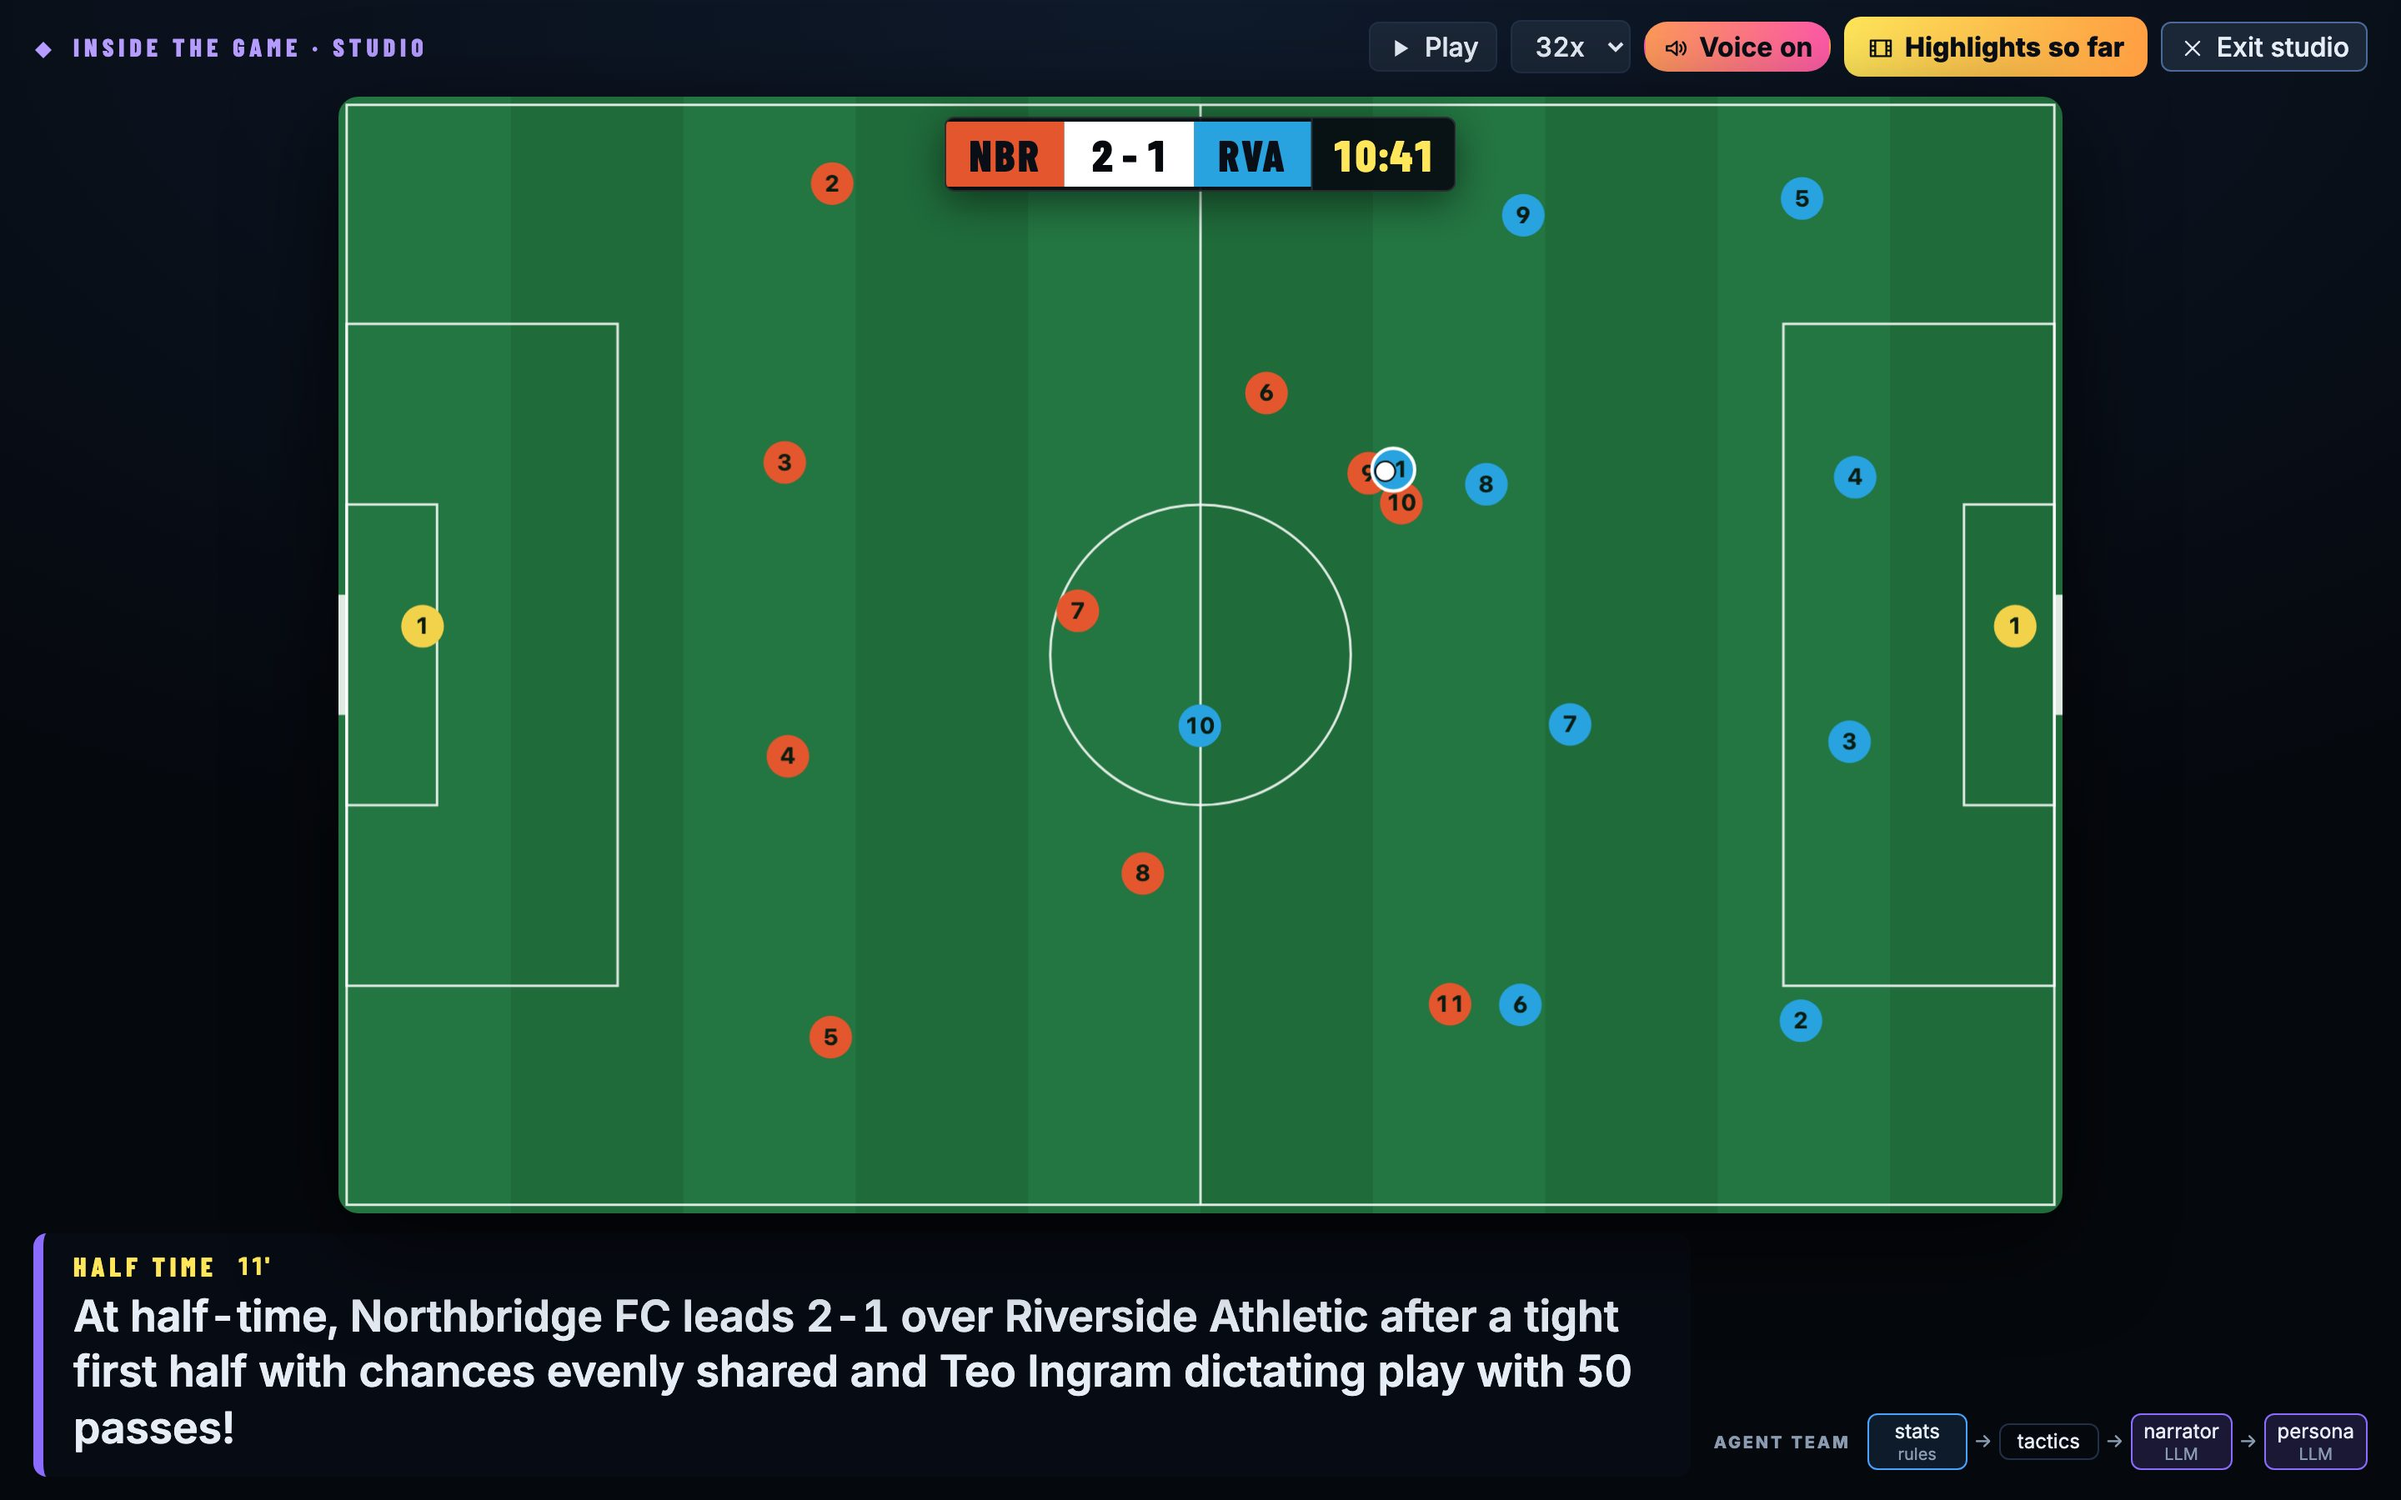
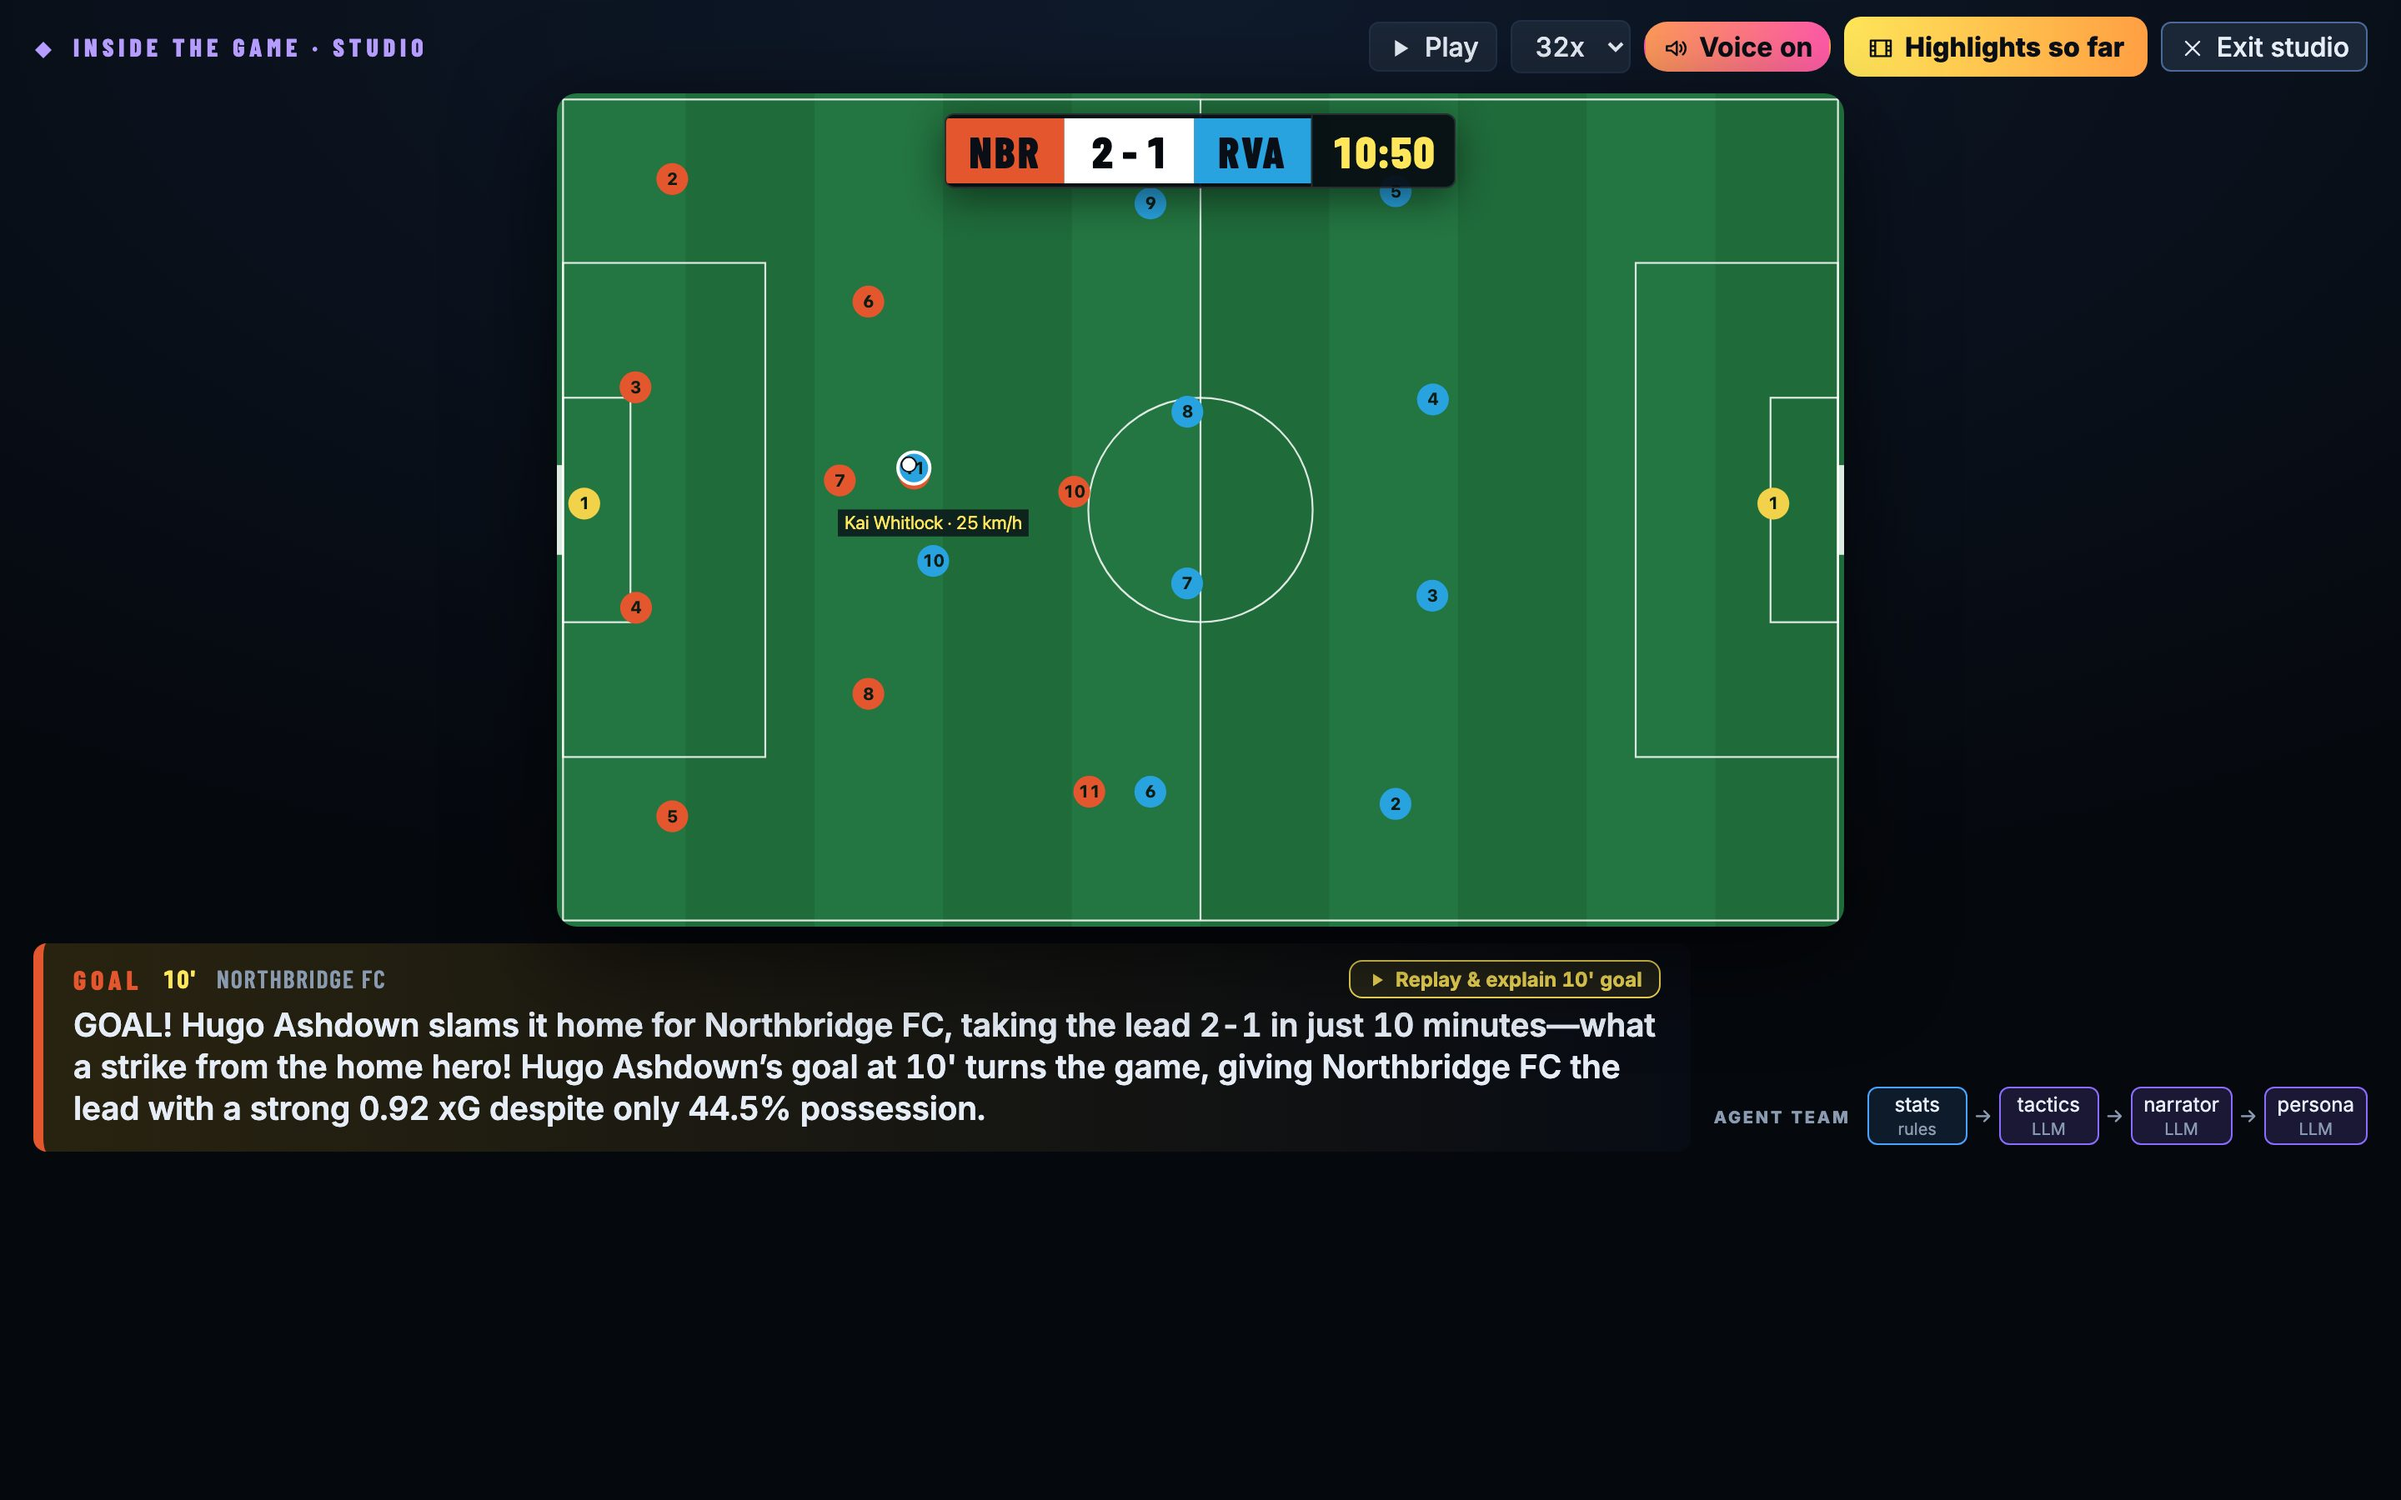
Screenshots and docs for the Watch, Crew and Data shell

diff --git a/README.md b/README.md
@@ -18,47 +18,39 @@ each viewer, which also makes the match accessible to fans who cannot see the sc
 | Explain this moment: telestrated replay, analyst voice | AI highlights: producer + explainers in parallel |
 |---|---|
 | ![Explain this moment](docs/img/explain-3.jpg) | ![Highlights reel clip](docs/img/reel-clip.jpg) |
-| ![Broadcaster view: live pitch, key moments timeline, AI commentary with the agent trace](docs/img/live-broadcaster.jpg) | ![Highlights clip card](docs/img/reel-card.jpg) |
+| ![Watch: the broadcast with the viewer's rail](docs/img/live-broadcaster.jpg) | ![Crew: the agent team, outage drill, A2A](docs/img/crew.jpg) |
 
 What to try:
-- **Studio mode:** the output as a broadcast or stream would carry it. Full-screen pitch, the score bug, the
-  graphics cues from the overlays plugin (goal, big chance, "ON TARGET", pass rating, game state), the commentary
-  as a lower-third caption with a **Replay & explain** button on goals and chances, and a strip showing which
-  agent wrote the line and by which path. No dashboard chrome; Esc returns to it.
-- **Outage drill:** in the **Agent team · live** panel (Broadcaster or Analyst), kill any agent in the chain
-  while the match is on. Every call to it fails; the chain routes around it on the deterministic template, the
-  trace records the fallback, and the line still goes out. Failure recovery, shown live rather than claimed.
-- **Explain this moment:** every shot and goal lands on the key moments timeline. Click one and the explainer agent
-  replays it like a TV analyst at the telestrator: the move is drawn from tracking (how the ball was won, the passes,
-  the key pass and how many defenders it took out, the space at the shot), the replay freezes on each beat and the
-  analyst says it out loud, in the viewer's language.
-- **Highlights so far:** an automated highlights package of the match up to the live clock. The producer agent
-  ranks the moments, one explainer per clip runs in parallel, the producer writes the intro and outro, and the reel
-  plays narrated with clip cards and slow motion at the shot.
-- **Metric I care about:** pick one performance metric (sprint distance, completed passes, xG, pressures, top speed
-  or distance). A live ranking of every player on it stays on screen, and the commentary keeps that number in: a
-  goal line also says the scorer's sprint distance so far.
-- **Fan / Broadcaster / Analyst:** who is watching sets the commentary style and the screen (fans get voice, Ask
-  and highlights; broadcasters get talking points with the why, graphics cues and the agent panel; analysts also
-  get the raw-data tab). Match and plugin controls live under **Setup**.
-- **DATA tab:** the raw feed made visible. Live throughput (messages/s, KB/s), xG race, possession, momentum and
-  ball-speed charts building second by second, a 22-player tracking table (position, live speed, foot heights)
-  and the event stream as it arrives.
-- **Ask the AI:** ask anything about the match in any language ("who is tiring?", "why are they dominating?").
-  An agent with function calling picks live-data tools (`get_match_state`, `get_player`, `get_team_stats`,
-  `get_recent_events`, `get_top_players`, `get_ball_forecast`) and answers only from what they return. The tools
-  it used are shown under each answer.
-- **Voice commentary:** turn it on in the header and the AI commentary and answers are spoken live by an
-  Azure AI Speech neural voice in the viewer's language (en, tr, es, fr, de, pt, ar), with more energy on goals.
-- **Broadcast director:** watches every event and frame and briefs the narrator every few seconds: play-by-play
-  of what's on screen (who has the ball, where, the current passing move), fun facts as they happen (longest
-  move, fastest shot, braces, headers, weak-foot goals, saves, distance milestones) and running, half-time and
-  full-time recaps. Key moments always go first. In Analyst mode, each line shows the brief the narrator got.
-- **Live AI commentary:** every line is written by the agent team (labelled with the model), including
-  "state of play" updates every two match minutes.
-- **Agent team · live:** the orchestration on screen. Each line lights up its run through stats → tactics →
-  narrator → persona with the path each agent took (rules, LLM, skipped, fallback) and its latency, running
-  totals per agent, and the tools the Ask agent called for the last question.
+- **Watch:** the broadcast, personalised for you. The pitch with live graphics cues, the score bug, the commentary
+  as a lower-third caption with a **Replay & explain** button on every goal and chance, and a strip showing which
+  agent wrote the line and by which path. The rail is *you*: Fan, Broadcaster or Analyst; language; your club; your
+  player (the camera, stats and commentary follow them); the one metric you care about (a live ranking stays on
+  screen and the commentary keeps that number in); Ask the AI; the commentary feed. **Studio** makes the broadcast
+  full screen (Esc to come back).
+- **Crew:** the agent team at work. Each line lights up its run through stats → tactics → narrator → persona with
+  the path each agent took (rules, LLM, fallback) and its latency; the **outage drill** kills any agent live and the
+  broadcast carries on through its fallback; the A2A agent card and endpoint; match stats; half-time and full-time
+  reports; every commentary line with the brief the narrator got, the why and the trace.
+- **Data:** the raw feed made visible. Live throughput, xG race, possession, momentum and ball-speed charts building
+  second by second, a 22-player tracking table (position, live speed, foot heights) and the event stream.
+- **Explain this moment:** click a goal or chance on the key moments timeline, in the caption or in the feed. The
+  explainer agent replays it like a TV analyst at the telestrator: the move drawn from tracking (how the ball was
+  won, the passes, the key pass and how many defenders it took out, the space at the shot), the replay freezing on
+  each beat, the analyst saying it out loud in the viewer's language.
+- **Highlights so far:** an automated highlights package of the match up to the live clock. The producer agent ranks
+  the moments, one explainer per clip runs in parallel, the producer writes the intro and outro, and the reel plays
+  narrated with clip cards and slow motion at the shot.
+- **Ask the AI:** ask anything about the match in any language ("who is tiring?", "why are they dominating?"). An
+  agent with function calling picks live-data tools (`get_match_state`, `get_player`, `get_team_stats`,
+  `get_recent_events`, `get_top_players`, `get_ball_forecast`) and answers only from what they return. The tools it
+  used are shown under each answer.
+- **Voice:** the commentary, answers and replays are spoken live by an Azure AI Speech neural voice in the viewer's
+  language (en, tr, es, fr, de, pt, ar), with more energy on goals. This also makes the match accessible to fans who
+  cannot see the screen.
+- **Broadcast director:** watches every event and frame and briefs the narrator every few seconds: play-by-play of
+  what's on screen, fun facts as they happen (longest move, fastest shot, braces, headers, weak-foot goals, saves,
+  distance milestones) and running, half-time and full-time recaps. Key moments always go first.
+- **Setup** (header): match generator and picker, analytics plugin toggles, casual or tactical commentary style.
 
 ## Architecture
 
@@ -100,7 +92,7 @@ flowchart TB
     A4 --> WS["WebSocket feed"]
     ASK --> WS
     Plugins --> WS
-    WS --> UI["React UI<br/>2D / 3D / DATA, kick-off,<br/>player focus, Ask the AI"]
+    WS --> UI["React UI<br/>Watch / Crew / Data, Studio,<br/>player focus, Ask the AI"]
     UI -- "/api/tts" --> TTS["Azure AI Speech<br/>neural voices, 7 languages"]
 ```
 

diff --git a/docs/SUBMISSION.md b/docs/SUBMISSION.md
@@ -58,7 +58,7 @@ clock.
 4. **Render:** a **Studio mode** that shows the output as a broadcast or stream would carry it (full-screen
    pitch, score bug, graphics cues, the commentary as a lower-third caption, the agent strip), 2D tactical and 3D
    views, broadcast graphics (lower thirds, "ON TARGET" calls, fun-fact cards) also exported as a timed,
-   machine-readable cue timeline for a graphics engine, and a DATA tab showing the raw feed, live charts and a
+   machine-readable cue timeline for a graphics engine, and a Data screen showing the raw feed, live charts and a
    22-player tracking table.
 5. **Personalise:** casual vs analyst, favourite club, a player-focus mode (camera, stats and commentary follow one
    player), a metric-focus mode (the one number you care about, live and in the commentary), 7 languages, spoken by
@@ -153,18 +153,18 @@ metrics possible.
 
 ## How to try it (testing instructions)
 
-1. Open the live demo, pick a language and **Fan**, **Broadcaster** or **Analyst**, press **Kick off** (sound on;
+1. Open the live demo, pick **Fan**, **Broadcaster** or **Analyst** and a language, press **Kick off** (sound on;
    browsers only allow audio after that click).
-2. When a goal or save marker appears on the **Key moments** timeline, click it: the explainer agent replays the move with
-   telestration and talks you through it.
+2. **Watch** is the broadcast: when a goal or chance lands, press **Replay & explain** in the caption (or the marker
+   on the key moments timeline): the explainer agent replays the move with telestration and talks you through it.
 3. Press **Highlights so far** (or **Match highlights** at full time): a narrated package cut by the producer and
    explainer agents.
-4. Watch the **Agent team · live** panel (Broadcaster or Analyst) for each line's run through the agents, then
-   press **kill tactics** in its outage drill: the next lines still arrive, with the fallback in the trace.
-5. Press **Studio** in the header for the broadcast output (Esc to come back).
+4. In the rail, set your club, follow a player, pick the metric you care about, switch language: the commentary
+   and the screen change for you. **Studio** shows the broadcast full screen.
+5. **Crew** shows each line's run through the agents. Press **kill tactics** in the outage drill: the next lines
+   still arrive, with the fallback in the trace. The A2A agent card and endpoint are listed there.
 6. Ask a question in **Ask the AI**; the tools it called are listed under the answer.
-7. In Analyst, the **DATA** tab shows the raw feed, live charts and tracking table. **Setup** has match and plugin
-   controls.
+7. **Data** shows the raw feed, live charts and the tracking table. **Setup** has match and plugin controls.
 
 No login is needed.
 
